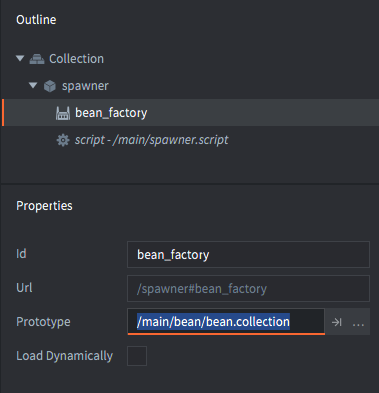
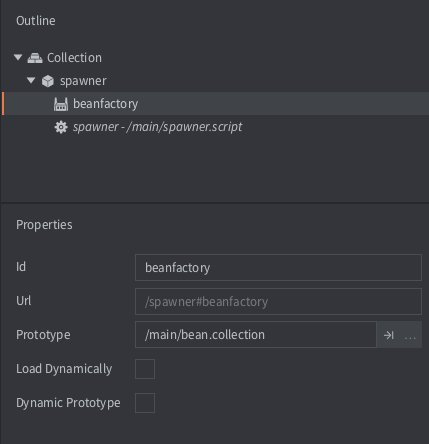
Collection factory Dynamic prototype

diff --git a/docs/en/manuals/collection-factory.md b/docs/en/manuals/collection-factory.md
@@ -148,3 +148,23 @@ Asynchronous loading
       collectionfactory.unload("#factory")
   end
   ```
+
+
+## Dynamic prototype
+
+It is possible to change which *Prototype* a collection factory can create by checking the *Dynamic Prototype* checkbox in the collection factory properties.
+
+![Dynamic prototype](images/collection_factory/dynamic_prototype.png)
+
+When the *Dynamic Prototype* option is checked the collection factory component can change prototype using the `collectionfactory.set_prototype()` function. Example:
+
+```lua
+collectionfactory.unload("#factory") -- unload the previous resources
+collectionfactory.set_prototype("#factory", "/main/levels/level1.collectionc")
+local ids = collectionfactory.create("#factory")
+```
+
+::: important
+When the *Dynamic Prototype* option is set the collection component count cannot be optimized, and the owning collection will use the default component counts from the *game.project* file.
+:::
+
